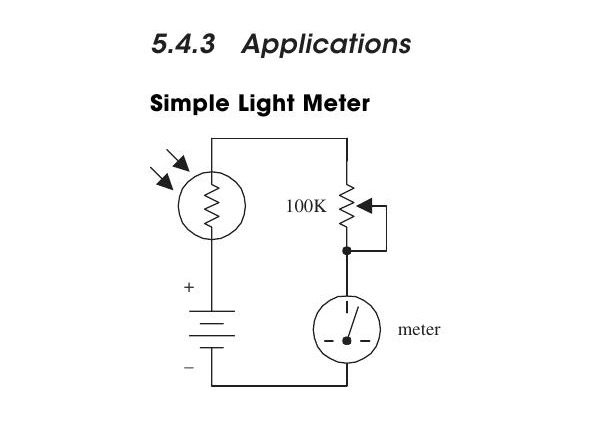
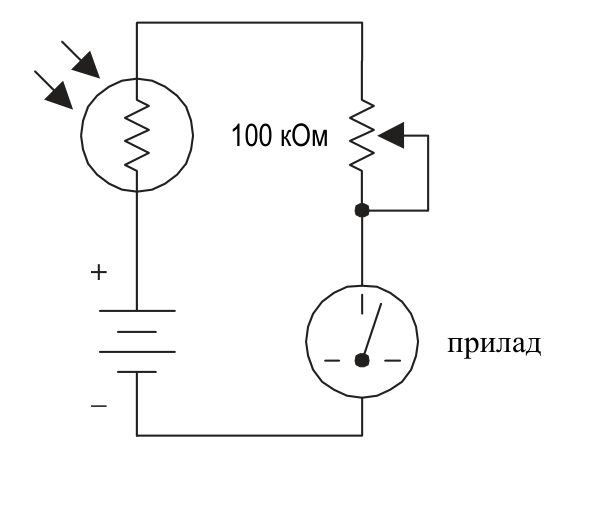
5.4: перевірка перекладу, прибрано додане (підписи до рис. 5.13–5.15), виправлено переклад 5.4.1 і світломіра, переклад рисунків 5.13–5.15 (V→U), формули, конспект у структурі 🔹

diff --git a/Електроніка/5.4 Фоторезистори.md b/Електроніка/5.4 Фоторезистори.md
@@ -3,84 +3,59 @@
 Джерело: [[Practical Electronics for Inventors(4th Edition).pdf#page=541|Practical Electronics for Inventors, 4-те видання, с. 512–514 (PDF 541–543)]].
 
 > [!info] Структура нотатки
-> Спочатку наведено повний переклад розділу 5.4 у послідовності підручника — разом із підрозділами 5.4.1–5.4.3, формулою та рисунками 5.13–5.15. Лише після завершення перекладу розміщено примітки, [[#Конспект|конспект]] і матеріали для повторення.
+> Спочатку наведено повний переклад розділу 5.4 у послідовності підручника — разом із підрозділами 5.4.1–5.4.3, формулою та рисунками 5.13–5.15 (текст на рисунках перекладено; позначення напруги $V$ замінено на $U$). Лише після завершення перекладу розміщено примітки, формули, [[#Конспект для повторення|конспект]] і матеріали для повторення.
 
 ## Повний переклад розділу
 
-Фоторезистори — це змінні резистори, опір яких керується світлом. Їх також називають світлозалежними резисторами — *light-dependent resistors*, або LDR.
-
-Щодо принципу роботи: у темряві фоторезистор зазвичай має дуже великий опір, що вимірюється мегаомами. Проте під час освітлення його опір істотно зменшується; залежно від інтенсивності світла він може впасти до кількох сотень омів.
-
-Фоторезистори використовують у схемах перемикання, які активуються світлом або темрявою, а також у світлочутливих детекторних схемах. На рисунку 5.13 показано умовне позначення фоторезистора.
+Фоторезистори — це змінні резистори, опір яких керується світлом. Їх також називають світлозалежними резисторами — *light-dependent resistors*, або LDR. Щодо принципу роботи: у темряві фоторезистор зазвичай має дуже великий опір, що вимірюється мегаомами. Проте під час освітлення його опір істотно зменшується; залежно від інтенсивності світла він може впасти до кількох сотень омів. Щодо застосувань: фоторезистори використовують у схемах перемикання, які активуються світлом або темрявою, а також у світлочутливих детекторних схемах. На рисунку 5.13 показано умовне позначення фоторезистора.
 
 ![[Зображення/Розділ 5/Рисунок 5.13 Умовне позначення фоторезистора.png]]
 
-**Рисунок 5.13.** Умовне позначення фоторезистора. Стрілки, спрямовані до резистивного елемента, позначають світло, яке падає на нього.
-
 ### 5.4.1 Як працює фоторезистор
 
-Фоторезистори виготовляють зі спеціального напівпровідникового кристала, наприклад із сульфіду кадмію — для видимого світла — або сульфіду свинцю — для інфрачервоного випромінювання.
-
-Коли такий напівпровідник перебуває в темряві, електрони в його структурі не можуть вільно рухатися крізь резистор, оскільки вони надто міцно зв’язані з атомами кристала. Проте під час освітлення фотони світла, що надходять, зіштовхуються зі зв’язаними електронами та відривають їх від відповідних атомів; унаслідок цього утворюються дірки.
-
-Звільнені електрони тепер можуть брати участь у струмі, що протікає крізь пристрій, тому його опір зменшується.
+Фоторезистори виготовляють зі спеціального напівпровідникового кристала, наприклад із сульфіду кадмію (для світла) або сульфіду свинцю (для інфрачервоного випромінювання). Коли такий напівпровідник перебуває в темряві, електрони в його структурі не «хочуть» текти крізь резистор, оскільки вони надто міцно зв’язані з атомами кристала. Проте під час освітлення фотони світла, що надходять, зіштовхуються зі зв’язаними електронами та відривають їх від відповідних атомів, утворюючи при цьому дірку. Ці звільнені електрони тепер можуть брати участь у струмі, що протікає крізь пристрій (опір зменшується).
 
 ![[Зображення/Розділ 5/Рисунок 5.14 Принцип роботи фоторезистора.png]]
 
-**Рисунок 5.14.** Принцип роботи фоторезистора на основі сульфіду кадмію. Фотони звільняють електрони й утворюють дірки; збільшення кількості рухомих носіїв заряду зменшує опір. На рисунку також показано напрямки електронного та умовного струмів і типовий корпус компонента.
-
 ### 5.4.2 Технічні відомості
 
-Фоторезистору може знадобитися кілька мілісекунд або більше, щоб повністю відреагувати на зміну інтенсивності світла. Після припинення освітлення для повернення до нормального темнового опору може знадобитися кілька секунд.
-
-Загалом усі фоторезистори працюють приблизно однаково. Однак їхня чутливість і діапазон опору можуть дуже істотно відрізнятися від одного пристрою до іншого.
-
-Крім того, певні фоторезистори краще реагують на світло, що містить фотони певного діапазону довжин хвиль. Наприклад, фоторезистори із сульфіду кадмію найкраще реагують на світло в діапазоні від $400$ до $800\,\mathrm{nm}$, тоді як фоторезистори із сульфіду свинцю найкраще реагують на інфрачервоні фотони.
+Фоторезисторам може знадобитися кілька мілісекунд або більше, щоб повністю відреагувати на зміни інтенсивності світла, і кілька секунд, щоб повернутися до свого нормального *темнового опору* після припинення освітлення. Загалом усі фоторезистори працюють приблизно однаково. Однак чутливість і діапазон опору фоторезистора можуть дуже істотно відрізнятися від одного пристрою до іншого. Крім того, певні фоторезистори можуть краще реагувати на світло, що містить фотони певного діапазону довжин хвиль спектра. Наприклад, фоторезистори із сульфіду кадмію найкраще реагують на світло в діапазоні від $400$ до $800\,\mathrm{нм}$, тоді як фоторезистори із сульфіду свинцю найкраще реагують на інфрачервоні фотони.
 
 ### 5.4.3 Застосування
 
 #### Простий світломір
 
-У цій схемі фоторезистор є світлочутливим елементом простого світломіра. У темряві фоторезистор має дуже великий опір, тому через послідовне коло протікає малий струм, а стрілка вимірювального приладу відхиляється найменше.
-
-Коли на фоторезистор спрямовують дедалі яскравіше світло, його опір починає зменшуватися, а струм у послідовному колі — зростати. Стрілка приладу відхиляється сильніше. Потенціометр використовують для регулювання чутливості вимірювача.
+У цій схемі фоторезистор є світлочутливим елементом простого світломіра. У темряві фоторезистор має дуже великий опір, тому через послідовне коло протікає малий струм; прилад перебуває на найнижчому рівні відхилення. Коли на фоторезистор спрямовують дедалі яскравіше джерело світла, опір фоторезистора починає зменшуватися, і через послідовне коло починає протікати більший струм; прилад починає відхилятися. Потенціометр використовують для регулювання чутливості приладу.
 
 ![[Зображення/Розділ 5/Рисунок 5.15 Простий світломір.png]]
 
-**Рисунок 5.15, частина 1.** Простий світломір із фоторезистором, потенціометром $100\,\mathrm{k\Omega}$ і стрілочним вимірювальним приладом.
-
 #### Світлочутливий подільник напруги
 
-Ці схеми подібні до подільника напруги, описаного в розділі 3. Як і раніше, вихідна напруга дорівнює:
+Ці схеми подібні до схеми подільника напруги, описаної в розділі 3. Як і раніше, вихідна напруга задається формулою
 
 $$
-V_{out}=\frac{R_2}{R_1+R_2}V_{in}.
+U_{out}=\frac{R_2}{R_1+R_2}U_{in}.
 $$
 
-Коли інтенсивність світла зростає, опір фоторезистора зменшується. Тому у верхній схемі $V_{out}$ зменшується зі збільшенням освітлення, а в нижній схемі $V_{out}$ зростає.
+Коли інтенсивність світла зростає, опір фоторезистора зменшується, тому $U_{out}$ у верхній схемі стає меншою, коли на фоторезистор потрапляє більше світла, тоді як $U_{out}$ у нижній схемі стає більшою.
 
-Такий подільник напруги зазвичай використовують для під’єднання фоторезистора до мікроконтролера.
+Такий подільник напруги зазвичай використовують, коли фоторезистор застосовують разом із мікроконтролером.
 
 ![[Зображення/Розділ 5/Рисунок 5.15 Світлочутливі подільники напруги.png]]
 
-**Рисунок 5.15, частина 2.** Два світлочутливі подільники напруги. У верхній схемі $R_1$ сталий, а фоторезистор є нижнім плечем $R_2$, тому зі зменшенням $R_2$ вихідна напруга спадає. У нижній схемі фоторезистор є верхнім плечем $R_1$, а $R_2$ сталий, тому зі зменшенням $R_1$ вихідна напруга зростає.
+#### Реле, активоване темрявою
 
-#### Реле, керовані світлом і темрявою
-
-У двох показаних схемах світлочутливі подільники напруги перемикають реле, коли змінюється інтенсивність світла.
-
-У схемі, яка активується світлом, світло падає на фоторезистор і його опір зменшується. Унаслідок цього зростають струм і напруга бази транзистора. Якщо струм і напруга бази достатньо великі, транзистор пропускає достатній струм від колектора до емітера й умикає реле.
-
-Реле, яке активується темрявою, працює подібно, але протилежним чином. Значення $R_1$ у схемі, яка активується світлом, має становити близько $1\,\mathrm{k\Omega}$, але може потребувати налаштування. $R_1$ у схемі, яка активується темрявою, — $100\,\mathrm{k\Omega}$ — також може потребувати налаштування. В обох схемах можна використати реле на $6$–$9\,\mathrm V$ з опором котушки $500\,\Omega$.
+Дві показані тут схеми використовують світлочутливі подільники напруги, щоб спрацьовувало реле щоразу, коли змінюється інтенсивність світла. У схемі, яка активується світлом, коли світло потрапляє на фоторезистор, його опір зменшується, що спричиняє зростання струму й напруги бази транзистора. Якщо струм і напруга бази достатньо великі, транзистор пропустить достатній струм від колектора до емітера, спрацьовуючи реле. Реле, яке активується темрявою, працює подібним, але протилежним чином. Значення $R_1$ у схемі, яка активується світлом, має становити близько $1\,\mathrm{кОм}$, але може потребувати налаштування. $R_1$ у схемі, яка активується темрявою ($100\,\mathrm{кОм}$), також може потребувати налаштування. В обох схемах можна використати реле на $6$–$9\,\mathrm{В}$ з котушкою $500\,\mathrm{Ом}$.
 
 ![[Зображення/Розділ 5/Рисунок 5.15 Реле керовані світлом і темрявою.png]]
 
-**Рисунок 5.15, продовження.** Ліворуч — схема на транзисторі 2N2222, яка активує реле за освітлення; праворуч — схема, яка активує його в темряві. Діод 1N4002 увімкнено паралельно котушці реле у зворотному напрямку.
-
 ## Примітки до тексту підручника
 
+> [!note] Заголовок «Dark-Activated Relay»
+> Над рисунком 5.15 (продовження) у підручнику надруковано лише заголовок «Dark-Activated Relay» («Реле, активоване темрявою»), хоча далі йдеться про обидві схеми: світлоактивовану (ліворуч) і темрявоактивовану (праворуч). Переклад зберігає заголовок оригіналу.
+
 > [!note] Неоднозначне позначення $R_1$ на рисунку 5.15
-> У тексті для світлоактивованої схеми рекомендовано $R_1\approx1\,\mathrm{k\Omega}$, а на самому рисунку біля нижнього резистора надруковано $4{,}7\,\mathrm{k\Omega}$ і також використано позначення $R_1$. Переклад зберігає обидва значення. Практичний номінал залежить від темнового й освітленого опору конкретного LDR, напруги живлення, коефіцієнта підсилення транзистора та струму котушки.
+> У тексті для світлоактивованої схеми рекомендовано $R_1\approx1\,\mathrm{кОм}$, а на самому рисунку біля нижнього резистора надруковано $4{,}7\,\mathrm{кОм}$ і також використано позначення $R_1$. Переклад зберігає обидва значення. Практичний номінал залежить від темнового й освітленого опору конкретного LDR, напруги живлення, коефіцієнта підсилення транзистора та струму котушки.
 
 > [!note] Діод 1N4002 біля реле
 > Поки реле ввімкнене, діод зміщений у зворотному напрямку й майже не проводить. Після вимкнення транзистора котушка намагається підтримати струм і створює імпульс напруги; діод дає цьому струму безпечний шлях і захищає транзистор. Такий діод називають зворотним, захисним або *flyback*-діодом.
@@ -94,66 +69,62 @@ $$
 > [!note] Схема з мікроконтролером
 > Аналоговий вхід мікроконтролера вимірює напругу, а не опір безпосередньо. Саме тому LDR спочатку включають у подільник напруги. Вхід має бути високоомним, щоб істотно не навантажувати подільник.
 
-## Конспект
+## Формули розділу
 
-### Головна ідея
+**Формула**: $U_{out}=\dfrac{R_2}{R_1+R_2}\,U_{in}$ (рис. 5.15, з тексту підручника)
+**Позначення**: $U_{out}$ — вихідна напруга (знімається з $R_2$); $U_{in}$ — вхідна напруга; $R_1$ — верхній резистор подільника; $R_2$ — нижній резистор подільника.
+**Фізичний смисл**: вихідна напруга є часткою вхідної, пропорційною нижньому плечу. Якщо одне з плечей — фоторезистор, зміна освітленості змінює $U_{out}$.
 
-Фоторезистор перетворює зміну освітлення на зміну опору:
+**Формула**: $U_{out}=U_{in}\dfrac{R_{LDR}}{R_{fixed}+R_{LDR}}$ (LDR унизу; похідна від попередньої)
+**Позначення**: $R_{LDR}$ — опір фоторезистора; $R_{fixed}$ — сталий резистор угорі.
+**Фізичний смисл**: більше світла → менший $R_{LDR}$ → $U_{out}$ **зменшується** (верхня схема рис. 5.15).
 
-$$
-\text{більше світла}
-\rightarrow \text{більше вільних носіїв заряду}
-\rightarrow \text{вища провідність}
-\rightarrow \text{менший опір}.
-$$
+**Формула**: $U_{out}=U_{in}\dfrac{R_{fixed}}{R_{LDR}+R_{fixed}}$ (LDR угорі; похідна від першої)
+**Позначення**: $R_{fixed}$ — сталий резистор унизу; $R_{LDR}$ — фоторезистор угорі.
+**Фізичний смисл**: більше світла → менший $R_{LDR}$ → $U_{out}$ **зростає** (нижня схема рис. 5.15).
 
-У темряві опір може становити мегаоми, а за сильного освітлення — сотні омів. Напрямок підключення LDR не має значення: це резистивний, а не полярний компонент.
+**Формула**: $I_{coil}\approx\dfrac{U_{coil}}{R_{coil}}$ (довідково, не з розділу; для реле $6$–$9\,\mathrm{В}$, $500\,\mathrm{Ом}$)
+**Позначення**: $I_{coil}$ — струм котушки реле; $U_{coil}$ — напруга на котушці; $R_{coil}$ — її опір ($500\,\mathrm{Ом}$).
+**Фізичний смисл**: оцінює струм, який має комутувати транзистор. Для $9\,\mathrm{В}$: $9/500=18\,\mathrm{мА}$.
 
-### Карта формул
+**Якісне співвідношення**: освітленість $\uparrow$ ⇒ $R_{LDR}\downarrow$ (від мегаомів у темряві до сотень омів на світлі); CdS чутливий до $400$–$800\,\mathrm{нм}$, PbS — до інфрачервоного діапазону.
 
-Загальна формула подільника:
+## Конспект для повторення
 
-$$
-V_{out}=V_{in}\frac{R_{bottom}}{R_{top}+R_{bottom}}.
-$$
+### 🔹 Головна ідея розділу
+Фоторезистор (LDR) — резистор, опір якого керується світлом. У темряві його опір становить мегаоми, на яскравому світлі — лише кілька сотень омів. Причина — фотони вивільняють зв’язані електрони напівпровідникового кристала (CdS, PbS), кількість рухомих носіїв зростає, і провідність підвищується. Тому LDR добре підходить для схем «світло/темрява» та простих вимірювачів світла. Щоб змінний опір перетворити на напругу, яку можна виміряти або подати на мікроконтролер, LDR вмикають у подільник напруги.
 
-Якщо LDR розташований знизу:
+### 🔹 Ключові поняття
+1. **Принцип роботи.** У темряві електрони міцно зв’язані з атомами. Фотон вибиває електрон, утворюючи дірку; вільні електрони беруть участь у струмі, тож опір зменшується.
+2. **Властивості.** Реакція на світло займає мілісекунди або більше, повернення до темнового опору після затемнення — секунди. Чутливість і діапазон опору сильно різняться між екземплярами. CdS найкраще реагує на $400$–$800\,\mathrm{нм}$ (видиме світло), PbS — на інфрачервоні фотони.
+3. **Світломір.** LDR послідовно з потенціометром ($100\,\mathrm{кОм}$) і приладом: більше світла → менший опір → більший струм → більше відхилення. Потенціометр регулює чутливість.
+4. **Світлочутливий подільник.** $U_{out}=U_{in}R_2/(R_1+R_2)$. LDR унизу — світліше дає нижчу $U_{out}$; LDR угорі — світліше дає вищу $U_{out}$. Така схема — стандартний спосіб підключити LDR до мікроконтролера.
+5. **Реле, керовані світлом і темрявою.** Подільник задає струм і напругу бази транзистора 2N2222; за достатньої бази транзистор пропускає струм колектор–емітер і вмикає реле ($6$–$9\,\mathrm{В}$, котушка $500\,\mathrm{Ом}$). $R_1\approx1\,\mathrm{кОм}$ (за світлом) або $100\,\mathrm{кОм}$ (за темрявою); номінали можуть потребувати підбору. Діод 1N4002 захищає від імпульсу самоіндукції котушки.
 
-$$
-V_{out}=V_{in}\frac{R_{LDR}}{R_{fixed}+R_{LDR}}.
-$$
+### 🔹 Зв’язок з попередніми темами
+Розділ 3: резистори, змінні резистори, подільник напруги — основа всіх схем 5.4. Розділ 4: напівпровідники, електрони й дірки (пояснення дії світла), транзистор як ключ і діод як захист. У 5.1–5.3 розглянуто світло, фотони та LED — джерела світла, яке тепер реєструє LDR. Далі (5.5) — фотодіод: також світловий датчик, але швидший і лінійніший, тоді як LDR повільний.
 
-Більше світла означає менший $R_{LDR}$, тому $V_{out}$ **зменшується**.
+### 🔹 Практичне застосування
+Автоматичне нічне освітлення (вмикання в темряві), сигналізації й датчики присутності світла, прості експонометри та світломіри, світлочутливі входи мікроконтролерів (через подільник і ADC), реле, що вмикаються світлом або темрявою. Не підходить для точних або швидких вимірювань: нелінійність, розкид і повільна реакція вимагають калібрування.
 
-Якщо LDR розташований зверху:
+### 🔹 Що запам’ятати
+1. **Більше світла — менше опору.** Темрява — мегаоми, світло — сотні омів.
+2. Символ: коло з резистором і двома стрілками **до** елемента (світло падає на нього).
+3. Реакція: мілісекунди; повернення до темнового опору — секунди.
+4. CdS — видиме світло ($400$–$800\,\mathrm{нм}$), PbS — інфрачервоне.
+5. Подільник: $U_{out}=U_{in}R_2/(R_1+R_2)$; позиція LDR задає знак реакції.
+6. Реле: подільник → база 2N2222 → котушка; діод 1N4002 обов’язковий.
+7. $R_1$ у схемах — лише орієнтовні (≈ $1\,\mathrm{кОм}$ і $100\,\mathrm{кОм}$), їх треба підбирати.
 
-$$
-V_{out}=V_{in}\frac{R_{fixed}}{R_{LDR}+R_{fixed}}.
-$$
-
-Більше світла означає менший $R_{LDR}$, тому $V_{out}$ **збільшується**.
-
-Для грубої оцінки струму котушки реле:
-
-$$
-I_{coil}\approx\frac{V_{coil}}{R_{coil}}.
-$$
-
-Наприклад, котушка $9\,\mathrm V$ з опором $500\,\Omega$ потребує приблизно:
-
-$$
-I_{coil}=\frac{9}{500}=0{,}018\,\mathrm A=18\,\mathrm{mA}.
-$$
-
-Транзистор і джерело живлення мають безпечно забезпечувати цей струм.
+## Додаткові матеріали для закріплення
 
 ### Як передбачити поведінку подільника
 
-1. Знайди елемент, з якого знімають $V_{out}$: це нижнє плече подільника.
+1. Знайди елемент, з якого знімають $U_{out}$: це нижнє плече подільника.
 2. Визнач, чи є LDR верхнім або нижнім плечем.
 3. Уяви сильніше світло: $R_{LDR}$ зменшується.
-4. Якщо зменшується нижнє плече — $V_{out}$ падає.
-5. Якщо зменшується верхнє плече — $V_{out}$ зростає.
+4. Якщо зменшується нижнє плече — $U_{out}$ падає.
+5. Якщо зменшується верхнє плече — $U_{out}$ зростає.
 
 Коротке правило:
 
@@ -166,7 +137,7 @@ $$
 
 1. виміряти $R_{LDR}$ у бажаних умовах «темно» і «світло»;
 2. вибрати початковий $R_{fixed}$ між цими значеннями, часто близько до їхнього геометричного середнього;
-3. перевірити отримані $V_{out}$;
+3. перевірити отримані $U_{out}$;
 4. за потреби замінити сталий резистор потенціометром для налаштування порога.
 
 ### Чому реле може «дрижати» біля порога
@@ -179,7 +150,7 @@ $$
 
 | Матеріал | Найкраща область чутливості за книгою | Типове призначення |
 |---|---|---|
-| Сульфід кадмію, CdS | $400$–$800\,\mathrm{nm}$ | Видиме світло |
+| Сульфід кадмію, CdS | $400$–$800\,\mathrm{нм}$ | Світло |
 | Сульфід свинцю, PbS | Інфрачервоне випромінювання | ІЧ-детектування |
 
 ### Підказки для запам’ятовування
@@ -187,7 +158,6 @@ $$
 - **LDR: Light Dependent Resistor.** Світло визначає опір.
 - **Більше світла — менше опору.** Це головне правило всього розділу.
 - Стрілки на символі спрямовані **до** компонента, бо світло надходить до фоторезистора.
-- LDR реагує повільніше за фотодіод; після затемнення повернення до великого опору може тривати секунди.
 - Подільник перетворює опір на напругу, яку вже може виміряти ADC мікроконтролера.
 - Положення LDR у подільнику визначає знак реакції виходу.
 - Котушка реле є індуктивністю, тому їй потрібен захисний діод.
@@ -211,8 +181,8 @@ $$
 4. Чим відрізняється спектральна чутливість CdS і PbS фоторезисторів?
 5. Чому LDR може бути незручним для реєстрації швидких світлових імпульсів?
 6. Яка формула описує подільник напруги?
-7. Як змінюється $V_{out}$, якщо LDR є нижнім плечем?
-8. Як змінюється $V_{out}$, якщо LDR є верхнім плечем?
+7. Як змінюється $U_{out}$, якщо LDR є нижнім плечем?
+8. Як змінюється $U_{out}$, якщо LDR є верхнім плечем?
 9. Для чого потрібен транзистор у релейній схемі?
 10. Для чого потрібен діод 1N4002?
 
@@ -220,9 +190,9 @@ $$
 > 1. Light-dependent resistor — світлозалежний резистор.
 > 2. Зменшується.
 > 3. Фотони звільняють зв’язані електрони й збільшують кількість рухомих носіїв заряду.
-> 4. CdS найкраще реагує приблизно на $400$–$800\,\mathrm{nm}$, PbS — на інфрачервоне випромінювання.
+> 4. CdS найкраще реагує приблизно на $400$–$800\,\mathrm{нм}$, PbS — на інфрачервоне випромінювання.
 > 5. Його повна реакція займає мілісекунди або більше, а відновлення темнового опору — до кількох секунд.
-> 6. $V_{out}=V_{in}R_2/(R_1+R_2)$.
+> 6. $U_{out}=U_{in}R_2/(R_1+R_2)$.
 > 7. Зі збільшенням світла вона зменшується.
 > 8. Зі збільшенням світла вона зростає.
 > 9. Він підсилює керувальний сигнал і комутує струм котушки, завеликий для самого датчика або мікроконтролера.
@@ -230,15 +200,15 @@ $$
 
 ### Міні-вправи
 
-1. Подільник живиться від $5\,\mathrm V$. Зверху встановлено $10\,\mathrm{k\Omega}$, знизу — LDR. Обчисли $V_{out}$, коли $R_{LDR}=90\,\mathrm{k\Omega}$ у темряві та $2\,\mathrm{k\Omega}$ на світлі.
+1. Подільник живиться від $5\,\mathrm{В}$. Зверху встановлено $10\,\mathrm{кОм}$, знизу — LDR. Обчисли $U_{out}$, коли $R_{LDR}=90\,\mathrm{кОм}$ у темряві та $2\,\mathrm{кОм}$ на світлі.
 2. У попередній схемі поміняй місцями LDR і сталий резистор. Якими стануть дві вихідні напруги?
-3. Реле має котушку $6\,\mathrm V$, $500\,\Omega$. Оціни струм котушки.
+3. Реле має котушку $6\,\mathrm{В}$, $500\,\mathrm{Ом}$. Оціни струм котушки.
 4. Поясни, чому без гістерезису реле може багаторазово перемикатися на світанку або в сутінках.
 
 > [!success]- Відповіді до вправ
-> 1. У темряві: $V_{out}=5\cdot90/(10+90)=4{,}5\,\mathrm V$. На світлі: $V_{out}=5\cdot2/(10+2)\approx0{,}83\,\mathrm V$.
-> 2. У темряві: $V_{out}=5\cdot10/(90+10)=0{,}5\,\mathrm V$. На світлі: $V_{out}=5\cdot10/(2+10)\approx4{,}17\,\mathrm V$.
-> 3. $I=6/500=0{,}012\,\mathrm A=12\,\mathrm{mA}$.
+> 1. У темряві: $U_{out}=5\cdot90/(10+90)=4{,}5\,\mathrm{В}$. На світлі: $U_{out}=5\cdot2/(10+2)\approx0{,}83\,\mathrm{В}$.
+> 2. У темряві: $U_{out}=5\cdot10/(90+10)=0{,}5\,\mathrm{В}$. На світлі: $U_{out}=5\cdot10/(2+10)\approx4{,}17\,\mathrm{В}$.
+> 3. $I=6/500=0{,}012\,\mathrm{А}=12\,\mathrm{мА}$.
 > 4. Освітленість і вихідна напруга повільно коливаються біля одного порога; шум і невеликі зміни безперервно переводять транзистор то у відкритий, то в закритий стан.
 
 Попередня тема: [[5.3 Світлодіоди]].
